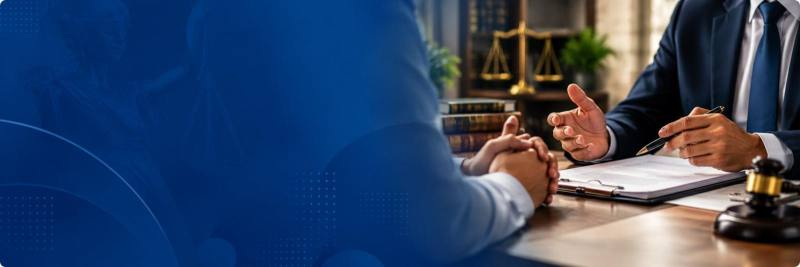
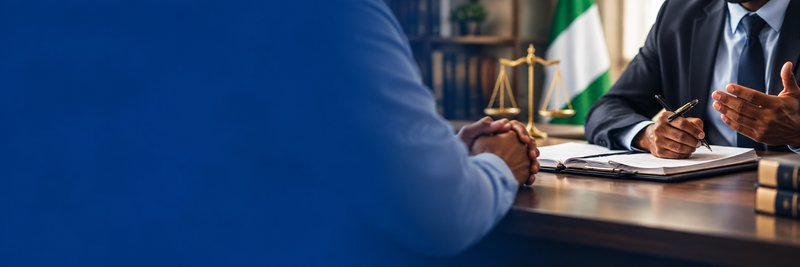
Met à jour l'image et repositionne le bouton du bandeau "Notre engagement"
Nouvelle photo fournie (balance, drapeau du Niger visible), remplace
services-engagement (fichier non partagé, aucune autre page ne
l'utilise). Le bouton "Faire une pré-saisine" avait self-start, qui
l'ancrait en haut malgré items-end sur la rangée flex ; passe à
self-start sur mobile et lg:self-end pour qu'il colle au bas du
bandeau comme la référence, bandeau resserré en hauteur
(min-h-[320px] → 200px) pour correspondre à la mise en page plus
compacte attendue.

diff --git a/resources/views/services.blade.php b/resources/views/services.blade.php
@@ -53,7 +53,7 @@
 
     {{-- ============ NOTRE ENGAGEMENT (photo banner) ============ --}}
     <section class="mx-auto max-w-7xl px-4 pb-12 sm:pb-16 sm:px-6 lg:px-8">
-        <div class="relative min-h-[320px] overflow-hidden rounded-xl">
+        <div class="relative min-h-[200px] overflow-hidden rounded-xl">
             <x-picture
                 path="placeholders/services-engagement"
                 alt="Avocat en consultation avec un client"
@@ -62,7 +62,7 @@
             />
             <div class="absolute inset-0 bg-gradient-to-t from-navy-950/90 via-navy-900/50 to-navy-900/10 lg:bg-gradient-to-r"></div>
 
-            <div class="relative flex h-full flex-col justify-end gap-6 px-6 py-10 sm:px-10 sm:py-14 lg:flex-row lg:items-end lg:justify-between">
+            <div class="relative flex h-full flex-col gap-6 px-6 py-8 sm:px-10 sm:py-10 lg:flex-row lg:items-end lg:justify-between">
                 <div class="max-w-lg">
                     <p class="flex items-center gap-2 text-xs font-semibold uppercase tracking-wider text-amber-400">
                         <span aria-hidden="true">&mdash;</span> Notre engagement
@@ -75,7 +75,7 @@
                     </p>
                 </div>
 
-                <x-button :href="route('presaisine.index')" variant="primary" class="shrink-0 self-start !bg-white !text-primary-700 hover:!bg-slate-100">
+                <x-button :href="route('presaisine.index')" variant="primary" class="shrink-0 self-start lg:self-end !bg-white !text-primary-700 hover:!bg-slate-100">
                     Faire une pré-saisine
                 </x-button>
             </div>
